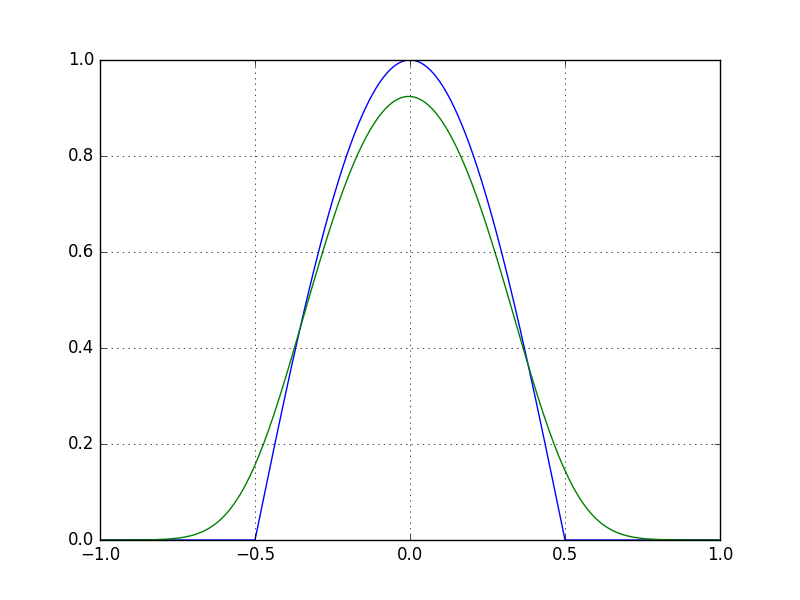
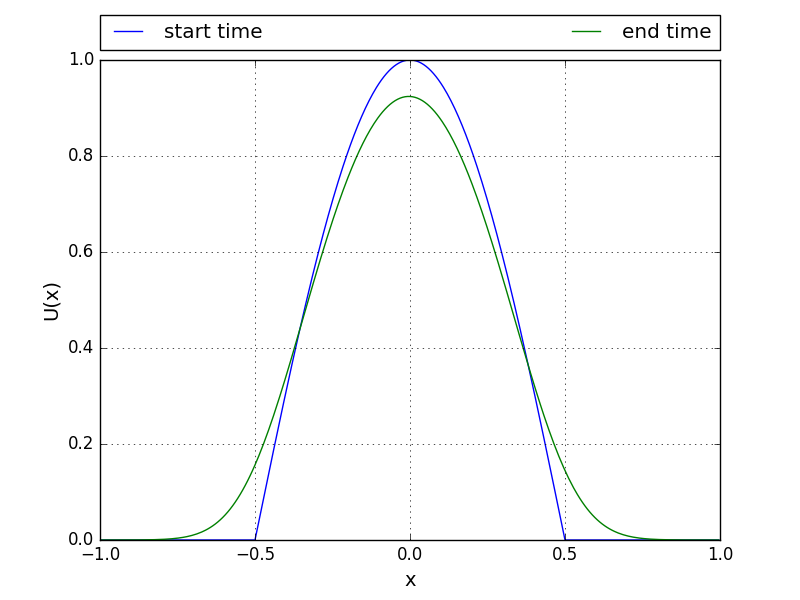
Дорабон график 2D

Changed region(s): [[0.125, 0.0, 0.9062, 0.09], [0.0625, 0.48, 0.0938, 0.54], [0.5, 0.96, 0.5312, 0.99]]

diff --git a/visualization/2D.py b/visualization/2D.py
@@ -9,7 +9,7 @@ file = open(path, 'r')
 
 pattern = re.compile('[A-Za-z]+=-?\d+')
 setting = { line.split('=')[0] : float(line.split('=')[1]) 
-			for line in file if pattern.match(line)}
+			for line in file if pattern.match(line) }
 
 file.close()
 
@@ -30,7 +30,11 @@ path = os.path.abspath(os.path.join(os.path.dirname(__file__), "..", "result", "
 yFinish = numpy.loadtxt(path)
 
 # Рисование графиков
-plt.plot(x, yStart)
-plt.plot(x, yFinish)
+plt.plot(x, yStart, label ='start time')
+plt.plot(x, yFinish, label ='end time')
+plt.legend(bbox_to_anchor=(0., 1.02, 1., .102), loc=3,
+           ncol=2, mode="expand", borderaxespad=0.)
+plt.xlabel('x', fontsize=14)
+plt.ylabel('U(x)', fontsize=14)
 plt.grid(True) 
 plt.show() 

diff --git a/visualization/3D.py b/visualization/3D.py
@@ -5,7 +5,7 @@ from matplotlib import pylab
 import matplotlib.pyplot as plt
 import numpy
 
-Z = numpy.loadtxt('OUTPUT.txt', unpack=True)
+Z = numpy.loadtxt('', unpack=True)
 Y = numpy.arange (-1, 1, 0.004)
 X = numpy.arange (0, 2, 1)
 X, Y = numpy.meshgrid(X, Y)

diff --git a/README.md b/README.md
@@ -1,1 +1,1 @@
-# Исследование задачи распределения тепла
+### Исследование задачи распределения тепла
